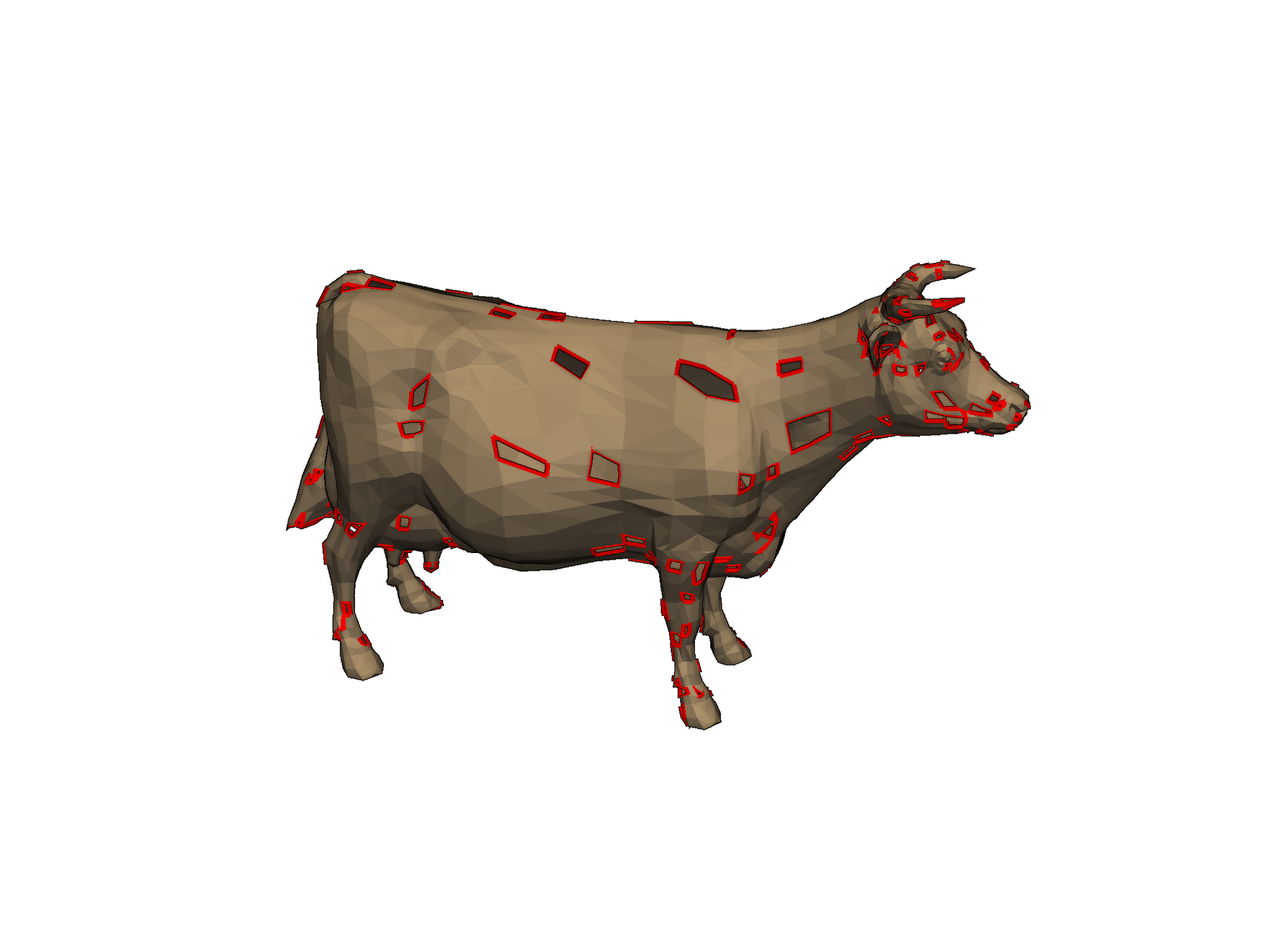
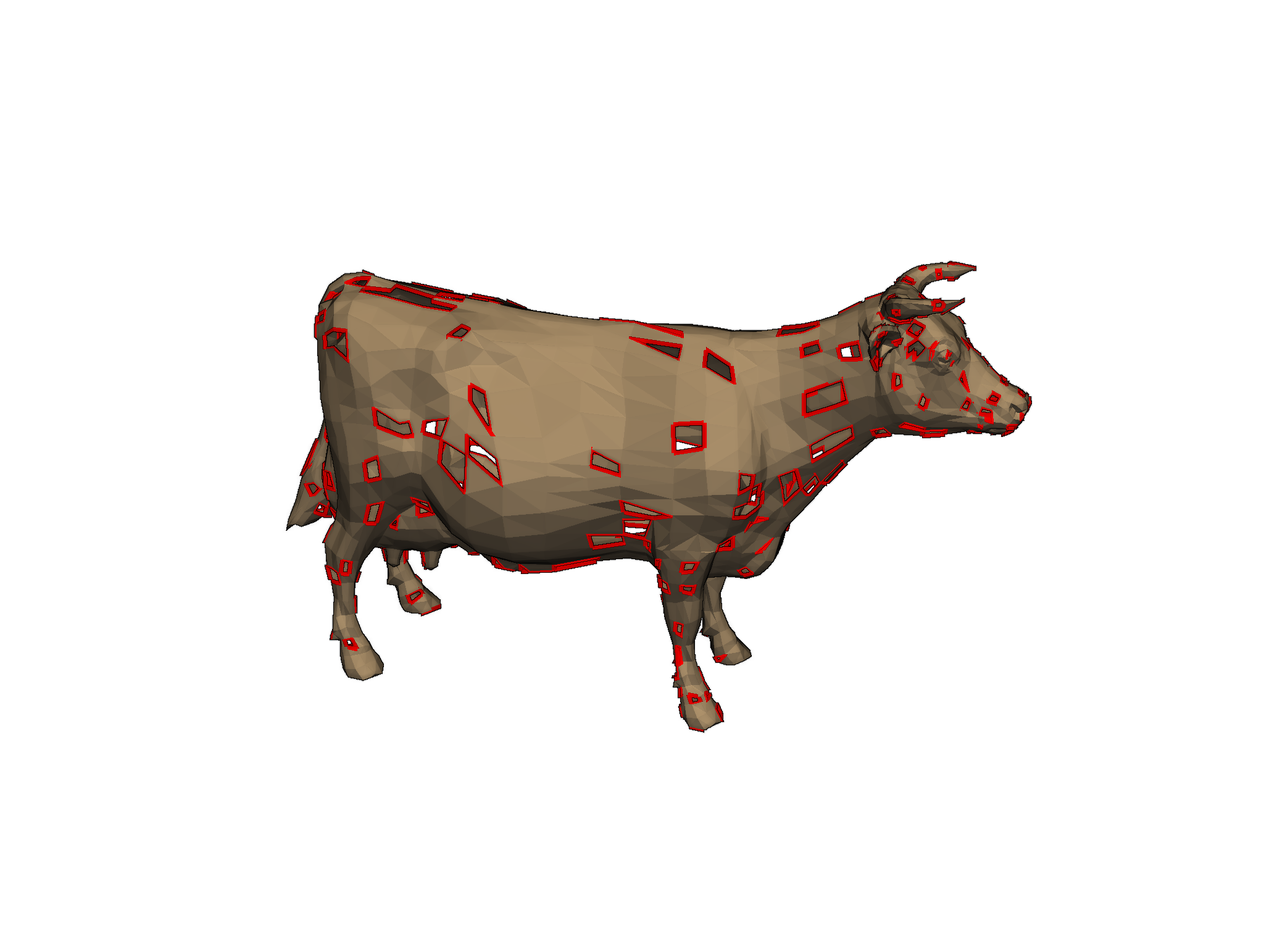
Deploying to gh-pages from @ pyvista/pymeshfix@f8fd3993439964ca3ed9f8ade580237b11e494d9 🚀

Changed region(s): [[0.25, 0.25, 0.8125, 0.7812], [0.2188, 0.4062, 0.4375, 0.6875]]

diff --git a/searchindex.js b/searchindex.js
@@ -1,1 +1,1 @@
-Search.setIndex({docnames:["_autosummary/_autosummary/pymeshfix.MeshFix.extract_holes","_autosummary/_autosummary/pymeshfix.MeshFix.faces","_autosummary/_autosummary/pymeshfix.MeshFix.load_arrays","_autosummary/_autosummary/pymeshfix.MeshFix.mesh","_autosummary/_autosummary/pymeshfix.MeshFix.plot","_autosummary/_autosummary/pymeshfix.MeshFix.points","_autosummary/_autosummary/pymeshfix.MeshFix.repair","_autosummary/_autosummary/pymeshfix.MeshFix.save","_autosummary/_autosummary/pymeshfix.PyTMesh.boundaries","_autosummary/_autosummary/pymeshfix.PyTMesh.clean","_autosummary/_autosummary/pymeshfix.PyTMesh.fill_small_boundaries","_autosummary/_autosummary/pymeshfix.PyTMesh.join_closest_components","_autosummary/_autosummary/pymeshfix.PyTMesh.load_array","_autosummary/_autosummary/pymeshfix.PyTMesh.load_file","_autosummary/_autosummary/pymeshfix.PyTMesh.n_points","_autosummary/_autosummary/pymeshfix.PyTMesh.remove_smallest_components","_autosummary/_autosummary/pymeshfix.PyTMesh.return_arrays","_autosummary/_autosummary/pymeshfix.PyTMesh.save_file","_autosummary/_autosummary/pymeshfix.PyTMesh.select_intersecting_triangles","_autosummary/pymeshfix.MeshFix","_autosummary/pymeshfix.PyTMesh","_autosummary/pymeshfix.clean_from_arrays","_autosummary/pymeshfix.clean_from_file","api","examples/bunny","examples/cow","examples/index","examples/repair_planar","examples/sg_execution_times","examples/torso","index"],envversion:{"sphinx.domains.c":2,"sphinx.domains.changeset":1,"sphinx.domains.citation":1,"sphinx.domains.cpp":3,"sphinx.domains.index":1,"sphinx.domains.javascript":2,"sphinx.domains.math":2,"sphinx.domains.python":3,"sphinx.domains.rst":2,"sphinx.domains.std":2,sphinx:56},filenames:["_autosummary/_autosummary/pymeshfix.MeshFix.extract_holes.rst","_autosummary/_autosummary/pymeshfix.MeshFix.faces.rst","_autosummary/_autosummary/pymeshfix.MeshFix.load_arrays.rst","_autosummary/_autosummary/pymeshfix.MeshFix.mesh.rst","_autosummary/_autosummary/pymeshfix.MeshFix.plot.rst","_autosummary/_autosummary/pymeshfix.MeshFix.points.rst","_autosummary/_autosummary/pymeshfix.MeshFix.repair.rst","_autosummary/_autosummary/pymeshfix.MeshFix.save.rst","_autosummary/_autosummary/pymeshfix.PyTMesh.boundaries.rst","_autosummary/_autosummary/pymeshfix.PyTMesh.clean.rst","_autosummary/_autosummary/pymeshfix.PyTMesh.fill_small_boundaries.rst","_autosummary/_autosummary/pymeshfix.PyTMesh.join_closest_components.rst","_autosummary/_autosummary/pymeshfix.PyTMesh.load_array.rst","_autosummary/_autosummary/pymeshfix.PyTMesh.load_file.rst","_autosummary/_autosummary/pymeshfix.PyTMesh.n_points.rst","_autosummary/_autosummary/pymeshfix.PyTMesh.remove_smallest_components.rst","_autosummary/_autosummary/pymeshfix.PyTMesh.return_arrays.rst","_autosummary/_autosummary/pymeshfix.PyTMesh.save_file.rst","_autosummary/_autosummary/pymeshfix.PyTMesh.select_intersecting_triangles.rst","_autosummary/pymeshfix.MeshFix.rst","_autosummary/pymeshfix.PyTMesh.rst","_autosummary/pymeshfix.clean_from_arrays.rst","_autosummary/pymeshfix.clean_from_file.rst","api.rst","examples/bunny.rst","examples/cow.rst","examples/index.rst","examples/repair_planar.rst","examples/sg_execution_times.rst","examples/torso.rst","index.rst"],objects:{"pymeshfix.MeshFix":{extract_holes:[0,1,1,""],faces:[1,1,1,""],load_arrays:[2,1,1,""],mesh:[3,2,1,""],plot:[4,1,1,""],points:[5,1,1,""],repair:[6,1,1,""],save:[7,1,1,""]},"pymeshfix.PyTMesh":{boundaries:[8,1,1,""],clean:[9,1,1,""],fill_small_boundaries:[10,1,1,""],join_closest_components:[11,1,1,""],load_array:[12,1,1,""],load_file:[13,1,1,""],n_points:[14,3,1,""],remove_smallest_components:[15,1,1,""],return_arrays:[16,1,1,""],save_file:[17,1,1,""],select_intersecting_triangles:[18,1,1,""]},pymeshfix:{MeshFix:[19,0,1,""],PyTMesh:[20,0,1,""],clean_from_arrays:[21,4,1,""],clean_from_file:[22,4,1,""]}},objnames:{"0":["py","class","Python class"],"1":["py","method","Python method"],"2":["py","property","Python property"],"3":["py","attribute","Python attribute"],"4":["py","function","Python function"]},objtypes:{"0":"py:class","1":"py:method","2":"py:property","3":"py:attribute","4":"py:function"},terms:{"0":[10,13,17,20,24,25,27,28,29],"00":[25,28],"01":29,"010":30,"015":24,"02":[28,29],"03":[25,28],"031":[24,28],"0416":30,"07":28,"083e":29,"09":28,"0x7fd8a0052dc0":25,"0x7fd8a0052e80":29,"0x7fd8a0775940":25,"1":[13,17,24,25,27,29,30],"10":[9,20,24,30],"100":27,"1007":30,"1053":29,"107":29,"11":29,"11728686797794724":29,"12":[24,29],"12015":29,"122":29,"12448":29,"1251":29,"12972139816963404":25,"13":[24,25,29],"1308599583755445":29,"15":29,"16":27,"17":29,"17593030196692086":29,"177":25,"18":29,"180":29,"2":[13,24,25,29,30],"2010":[20,30],"2020":30,"206":29,"22":[25,28,29],"2214553141739984":29,"26":24,"2659159586619985":24,"2727":25,"276":29,"28":24,"2863710324052292":24,"2903":25,"2d":2,"3":[2,9,12,19,20,21,25,27,30],"320e":29,"34924991814901474":25,"35":25,"4":[25,27],"44":25,"442e":29,"446e":25,"448":[28,29],"476":[27,28],"5":[24,25,27,29],"5225":25,"5450":25,"56":25,"6":[25,29],"624e":29,"637e":25,"680e":29,"696e":25,"7":29,"701e":25,"720e":29,"73":25,"749":28,"760e":25,"77":25,"794":[25,28],"8":[24,25,29],"83":29,"9":[24,25,29],"9204783184453794":24,"928006925367382":25,"93":25,"96":29,"9663504618501749":29,"9773905664828937":29,"998e":25,"case":[18,30],"class":[19,20,23],"default":[4,6,10,18,21,22,27],"export":3,"float":[17,30],"function":[23,26,30],"import":[13,19,20,21,22,24,25,27,29,30],"new":0,"public":[23,30],"return":[3,9,10,16,17,18,20,21,27,30],"true":[4,6,7,9,10,17,18,21,22,24,25,27,29],"while":30,A:[17,20,25,30],FOR:30,If:[10,17,20,27,30],In:30,It:27,No:30,One:30,Or:30,The:[9,12,13,17,18,20,23,26,30],There:[20,30],These:[23,27],To:30,_:27,_meshfix:[13,20,27],abov:30,absolut:29,access:[3,6,30],add:[10,25,27],add_mesh:[24,25,27,29],addit:4,aforement:9,again:[20,30],agreement:30,algorithm:27,all:[6,10,18,21,27,30],allow:30,along:[27,29],altern:30,an:[7,9,20,22],ani:30,appi:29,approach:[20,30],approxim:17,ar:[6,9,10,13,17,18,20,23,27,30],arg:19,argument:4,arrai:[2,6,12,16,18,19,20,21,25,29,30],ascii:[7,17],assum:30,attempt:[6,11,20,21,22,30],atten:[20,30],attribut:[19,20],author:30,automat:[12,13],award:30,back:27,back_approx:17,base:30,basic_tmesh:20,been:30,befor:[6,11,21],begin:[6,21],bell:30,better:30,between:17,binari:7,bool:[4,6,21,22],both:2,bound:[25,29,30],boundari:[0,4,10,20,27,30],bring:30,bunni:[26,28],c:[20,27,30],cad:30,call:9,camera:[24,25],camera_posit:[24,25,29],can:[7,30],cannot:30,cast:25,cd:30,cell:[25,29],charact:7,check:[20,30],cite:[20,30],clean:[17,19,20,21,22,30],clean_fac:21,clean_from_arrai:30,clean_from_fil:30,clean_point:21,click:[24,25,27,29],clone:30,close:30,cnr:30,coars:30,code:[24,25,27,29],coher:17,coincid:18,color:[24,25,27,29],com:30,commerci:30,common:18,commun:30,complet:9,complex:[18,29],compon:[6,11,15,20,21,22,25,29,30],comput:[20,30],connect:[12,13],contain:[2,12],contract:30,control:30,conveni:23,convert:27,cool:30,coordin:17,copi:30,correct:30,could:[9,30],cow:[19,26,28],cpo:[24,25,29],cpos_ear:29,creat:[19,20,30],current:13,cython:[20,23,30],d:[20,30],data:[2,17],debug:6,deduc:17,defect:30,defin:24,degener:[9,30],degeneraci:[9,24,25,29],demonstr:26,densiti:[10,27],depth:[18,24,25,27,29],design:30,detail:30,detect:27,determin:18,digit:[20,30],directli:30,disabl:6,disk:[7,22],distribut:30,doe:23,doi:30,don:30,download:[24,25,27,29],download_bunni:24,download_cow:[19,25],download_torso:29,drive:30,dtype:27,dual:30,e:30,each:[2,9],ear:29,eas:30,edg:[10,18,27],either:[19,22,27,30],element:30,emphas:29,empti:27,enabl:6,enable_eye_dome_light:[24,25,27,29],ensur:29,error:17,even:[18,30],eventu:9,exampl:[3,4,6,9,10,11,12,13,16,17,18,19,20,21,22,24,25,27,28,29],execut:28,expos:23,extens:[7,17,23],extra:27,extract:[0,24,29],extract_geometri:25,extract_hol:[24,25,27,29],eye_dome_light:29,f:[2,12,20,21,30],face:[2,6,9,12,16,18,19,21,27,30],fail:30,fals:[6,21,22,27],faster:7,fclean:[20,30],featur:30,file:[7,13,17,20,22,28],filenam:[7,17,22],filetyp:7,fill:[10,20,26,28,30],fill_small_boundari:[20,27,30],filter:29,fit:30,fix:[24,25,29],flaw:30,follow:[7,13,17,20,26,30],format:[13,17,20,30],foundat:30,free:30,from:[2,6,7,12,13,17,19,20,21,24,25,27,29,30],ftype:7,full:[24,25,27,29],g:30,galleri:[24,25,26,27,29],ge:30,gener:[24,25,26,27,29,30],get:8,git:30,github:30,gnu:30,gpl:30,ha:30,hard:30,have:[10,27,30],help:[4,24,25,27,29],here:[24,25,27,29,30],hole:[0,10,20,24,25,26,28,29,30],holei:[26,28],holy_cow:[19,25],hope:30,how:30,http:30,idea:30,imati:[13,17,30],impli:30,includ:27,indic:[1,18,19],infer:7,infil:[20,22,30],inmesh:22,inner:[10,27],inner_loop:[9,20,30],inplac:6,input:[22,30],instanc:20,int32:30,interfac:[20,27],intersect:[9,18,20,24,25,29,30],inventor:13,invert:25,ipynb:[24,25,27,29],isol:[6,21],iter:9,iv:[13,17],join:[6,11,20,21,22,30],join_closest_compon:[20,30],joincomp:[6,21,22],jul:30,jupyt:[24,25,27,29],justprop:18,keep:18,keyword:4,kwarg:4,largest:[6,21,27],last:30,later:30,left:30,less:10,level:[23,27],leverag:30,librari:30,licens:30,lightweight:[20,30],limit:[17,27],line:0,line_width:[24,25,27,29],ll:30,load:[2,12,13,20,21,30],load_arrai:[20,30],load_fil:27,loader:[12,13],loadfil:[13,20,30],locat:25,loop:8,lower:[23,27],m:[20,30],mai:[7,30],main:30,manifold:[12,13,22],marco:[20,30],max_it:[9,20,30],mb:28,memori:[17,30],merchant:30,mesh:[0,1,2,4,5,6,7,8,9,11,12,13,14,16,17,18,19,20,21,22,24,25,27,29,30],meshfix:[20,23,24,25,27,29,30],method:[7,9,19,20,23],mf:[19,24,25,29],mfix:[4,27],might:30,minut:[24,25,27,29],miss:30,model:30,modifi:30,modul:30,more:30,most:[18,27],much:7,must:[22,30],my_mesh:3,n:[2,12,19,21,25,29],n_cell:25,nativ:30,nbe:[10,27],ndarrai:[2,12,16,18,19,21],nearbi:[6,11,20,21,22,30],necessari:[17,30],need:29,nice:25,non:17,note:[6,7,27],notebook:[24,25,27,29],np:[2,12,19,21,25,27,30],npy:21,number:[8,10,14,18,27],numpi:[2,12,16,18,20,21,25,27,30],obj:13,object:[13,17,19,20,27,30],occur:17,occurr:30,off:[13,17,22],one:[7,17],onli:[9,27],open:[6,11,13,21,22],openinventor:17,option:[4,6,7,21,22,30],org:30,orig_mesh:27,origin:27,other:[18,30],out:[24,25,27,29,30],outfil:[17,20,22,30],outlin:[24,25,27,29],outmesh:22,output:[20,22,27,30],over:30,overridden:7,p:[24,25,29],paper:[20,30],paramet:[2,4,6,7,9,12,18,19,21,22],part:[18,29,30],partial:[26,28],particular:30,patch:[10,24,25,27,29],percept:[24,25,27,29],perform:[6,21,22,30],perfrom:29,pip:30,planar:27,planar_mesh:27,pleas:[20,30],plot:[3,24,25,27,29,30],plot_boundari:27,plotter:[24,25,27,29],ply:[3,7,13,17,22,30],point:[2,6,12,14,16,17,19,21,25,27,29],polydata:[19,25,27,29],polygon:[20,30],polyhedr:29,polyhedron:30,portabl:30,posit:24,precis:17,present:30,print:[6,20,21,22,25,29,30],procedur:[21,22],process:[6,21],produc:[9,30],program:30,progress:[21,22],proper:30,properti:3,publish:30,pure:23,purpos:[20,30],pv:[24,25,27,29],py:[24,25,27,28,29],pymeshfix:[24,25,27,29],pypi:30,python:[23,24,25,27,29,30],pytmesh:[23,27,30],pyvista:[0,4,7,19,22,23,24,25,26,27,29,30],r:[24,25,27,29],rand:25,random:25,raw:30,reach:30,read:[22,27,30],readi:24,reason:30,reconstruct:[12,13],recurs:18,redistribut:30,refer:30,refin:[10,27],reflect:17,regard:18,region:30,remov:[6,9,15,20,21,25,27,29,30],remove_smallest_compon:[6,21],render:[24,25,27],repair:[11,20,21,22,24,25,27,29,30],repair_planar:[27,28],repres:30,represent:17,reproduc:[10,27],requir:[23,30],research:[20,30],reserv:30,reson:18,result:[25,30],return_arrai:[20,27,30],right:30,run:[11,24,25,27,29,30],s00371:30,s:[6,7,27,30],safe:18,same:30,sampl:[10,27],save:[3,17,30],save_fil:[20,30],script:[24,25,27,29],second:[24,25,27,29],see:[4,30],seem:27,select:18,self:[9,20,30],set:[17,30],shape:27,should:[2,11,17,30],show:[4,24,25,27,29],show_edg:29,show_hol:4,simpl:7,simpli:29,singl:[22,27,30],singular:30,size:12,small:[10,25,29],smallest:15,so:29,softwar:30,solid:30,some:[27,30],sort:30,sourc:[24,25,27,29,30],space:18,specif:30,specifi:7,speed:30,sphinx:[24,25,26,27,29],sphinx_gallery_thumbnail_numb:[24,25,27,29],springer:[20,30],stdout:[21,22],still:30,stl:[7,13,22],str:[7,22],string:7,strongdegeneracyremov:9,strongintersectionremov:9,subdivis:18,subsimplex:18,subtl:29,support:13,surfac:[3,7,19,30],surround:[10,27],t:30,take:30,term:30,tessel:30,test:30,tetrahedr:19,than:[7,10],thei:[18,30],them:[6,9],therefor:30,therein:30,thi:[0,7,17,27,29,30],threchold:18,three:[2,7],threshold:25,thu:30,tight:29,time:[9,24,25,27,29],tin:[9,10,11,12,13,16,17,18,20,30],tmesh:[20,27,30],torso:[26,28],total:[24,25,27,28,29],tri:[13,17],triangl:[8,12,13,18,19,27,29,30],triangul:[25,29],triangular:2,tris_per_cel:18,two:[9,23],txt:30,type:[7,18],typic:30,unavail:30,under:[18,30],underli:3,understand:30,unless:7,unmodifi:30,unproperli:18,up:9,updat:[6,30],us:[6,9,17,18,19,20,22,23,26,27,30],user:30,v2:20,v:[2,12,20,21,30],valu:[17,18],vclean:[20,30],ver:[13,17],verbos:[6,21,22,24,25,27,29],version:30,vert:27,vertex:[2,6,16,17,19,21,30],vertic:[10,12,18,21,27],vertici:12,view:30,visual:[20,30],vrml:[13,17],vtk:[7,22,27],vtkinterfac:30,wa:29,want:30,warranti:30,water:29,watertight:30,when:17,where:[29,30],wherebi:27,which:23,whistl:30,win:30,wish:30,with_vtk:30,within:30,without:[9,22,23],wonder:30,work:30,wrapper:[7,30],write:[7,22,30],written:7,wrl:[13,17],www:30,x:[2,12,19,21,25,29],xyz:2,y:[25,29],you:30,your:30,z:[25,29],zero:17},titles:["pymeshfix.MeshFix.extract_holes","pymeshfix.MeshFix.faces","pymeshfix.MeshFix.load_arrays","pymeshfix.MeshFix.mesh","pymeshfix.MeshFix.plot","pymeshfix.MeshFix.points","pymeshfix.MeshFix.repair","pymeshfix.MeshFix.save","pymeshfix.PyTMesh.boundaries","pymeshfix.PyTMesh.clean","pymeshfix.PyTMesh.fill_small_boundaries","pymeshfix.PyTMesh.join_closest_components","pymeshfix.PyTMesh.load_array","pymeshfix.PyTMesh.load_file","pymeshfix.PyTMesh.n_points","pymeshfix.PyTMesh.remove_smallest_components","pymeshfix.PyTMesh.return_arrays","pymeshfix.PyTMesh.save_file","pymeshfix.PyTMesh.select_intersecting_triangles","pymeshfix.MeshFix","pymeshfix.PyTMesh","pymeshfix.clean_from_arrays","pymeshfix.clean_from_file","API Reference","Bunny","Holey Cow","pymeshfix Examples","Partial Fill Holes","Computation times","Torso","PyMeshFix"],titleterms:{algorithm:30,api:23,boundari:8,bunni:24,citat:30,clean:9,clean_from_arrai:21,clean_from_fil:22,complet:30,comput:28,copyright:30,cow:25,depend:30,easi:30,exampl:[26,30],extract_hol:0,face:1,fill:27,fill_small_boundari:10,hole:27,holei:25,instal:30,join_closest_compon:11,load_arrai:[2,12],load_fil:13,mesh:3,meshfix:[0,1,2,3,4,5,6,7,19],n_point:14,partial:27,plot:4,point:5,polici:30,pymeshfix:[0,1,2,3,4,5,6,7,8,9,10,11,12,13,14,15,16,17,18,19,20,21,22,26,30],pytmesh:[8,9,10,11,12,13,14,15,16,17,18,20],refer:23,remove_smallest_compon:15,repair:6,return_arrai:16,save:7,save_fil:17,select_intersecting_triangl:18,time:28,torso:29,vtk:30,without:30}})
+Search.setIndex({docnames:["_autosummary/_autosummary/pymeshfix.MeshFix.extract_holes","_autosummary/_autosummary/pymeshfix.MeshFix.faces","_autosummary/_autosummary/pymeshfix.MeshFix.load_arrays","_autosummary/_autosummary/pymeshfix.MeshFix.mesh","_autosummary/_autosummary/pymeshfix.MeshFix.plot","_autosummary/_autosummary/pymeshfix.MeshFix.points","_autosummary/_autosummary/pymeshfix.MeshFix.repair","_autosummary/_autosummary/pymeshfix.MeshFix.save","_autosummary/_autosummary/pymeshfix.PyTMesh.boundaries","_autosummary/_autosummary/pymeshfix.PyTMesh.clean","_autosummary/_autosummary/pymeshfix.PyTMesh.fill_small_boundaries","_autosummary/_autosummary/pymeshfix.PyTMesh.join_closest_components","_autosummary/_autosummary/pymeshfix.PyTMesh.load_array","_autosummary/_autosummary/pymeshfix.PyTMesh.load_file","_autosummary/_autosummary/pymeshfix.PyTMesh.n_points","_autosummary/_autosummary/pymeshfix.PyTMesh.remove_smallest_components","_autosummary/_autosummary/pymeshfix.PyTMesh.return_arrays","_autosummary/_autosummary/pymeshfix.PyTMesh.save_file","_autosummary/_autosummary/pymeshfix.PyTMesh.select_intersecting_triangles","_autosummary/pymeshfix.MeshFix","_autosummary/pymeshfix.PyTMesh","_autosummary/pymeshfix.clean_from_arrays","_autosummary/pymeshfix.clean_from_file","api","examples/bunny","examples/cow","examples/index","examples/repair_planar","examples/sg_execution_times","examples/torso","index"],envversion:{"sphinx.domains.c":2,"sphinx.domains.changeset":1,"sphinx.domains.citation":1,"sphinx.domains.cpp":3,"sphinx.domains.index":1,"sphinx.domains.javascript":2,"sphinx.domains.math":2,"sphinx.domains.python":3,"sphinx.domains.rst":2,"sphinx.domains.std":2,sphinx:56},filenames:["_autosummary/_autosummary/pymeshfix.MeshFix.extract_holes.rst","_autosummary/_autosummary/pymeshfix.MeshFix.faces.rst","_autosummary/_autosummary/pymeshfix.MeshFix.load_arrays.rst","_autosummary/_autosummary/pymeshfix.MeshFix.mesh.rst","_autosummary/_autosummary/pymeshfix.MeshFix.plot.rst","_autosummary/_autosummary/pymeshfix.MeshFix.points.rst","_autosummary/_autosummary/pymeshfix.MeshFix.repair.rst","_autosummary/_autosummary/pymeshfix.MeshFix.save.rst","_autosummary/_autosummary/pymeshfix.PyTMesh.boundaries.rst","_autosummary/_autosummary/pymeshfix.PyTMesh.clean.rst","_autosummary/_autosummary/pymeshfix.PyTMesh.fill_small_boundaries.rst","_autosummary/_autosummary/pymeshfix.PyTMesh.join_closest_components.rst","_autosummary/_autosummary/pymeshfix.PyTMesh.load_array.rst","_autosummary/_autosummary/pymeshfix.PyTMesh.load_file.rst","_autosummary/_autosummary/pymeshfix.PyTMesh.n_points.rst","_autosummary/_autosummary/pymeshfix.PyTMesh.remove_smallest_components.rst","_autosummary/_autosummary/pymeshfix.PyTMesh.return_arrays.rst","_autosummary/_autosummary/pymeshfix.PyTMesh.save_file.rst","_autosummary/_autosummary/pymeshfix.PyTMesh.select_intersecting_triangles.rst","_autosummary/pymeshfix.MeshFix.rst","_autosummary/pymeshfix.PyTMesh.rst","_autosummary/pymeshfix.clean_from_arrays.rst","_autosummary/pymeshfix.clean_from_file.rst","api.rst","examples/bunny.rst","examples/cow.rst","examples/index.rst","examples/repair_planar.rst","examples/sg_execution_times.rst","examples/torso.rst","index.rst"],objects:{"pymeshfix.MeshFix":{extract_holes:[0,1,1,""],faces:[1,1,1,""],load_arrays:[2,1,1,""],mesh:[3,2,1,""],plot:[4,1,1,""],points:[5,1,1,""],repair:[6,1,1,""],save:[7,1,1,""]},"pymeshfix.PyTMesh":{boundaries:[8,1,1,""],clean:[9,1,1,""],fill_small_boundaries:[10,1,1,""],join_closest_components:[11,1,1,""],load_array:[12,1,1,""],load_file:[13,1,1,""],n_points:[14,3,1,""],remove_smallest_components:[15,1,1,""],return_arrays:[16,1,1,""],save_file:[17,1,1,""],select_intersecting_triangles:[18,1,1,""]},pymeshfix:{MeshFix:[19,0,1,""],PyTMesh:[20,0,1,""],clean_from_arrays:[21,4,1,""],clean_from_file:[22,4,1,""]}},objnames:{"0":["py","class","Python class"],"1":["py","method","Python method"],"2":["py","property","Python property"],"3":["py","attribute","Python attribute"],"4":["py","function","Python function"]},objtypes:{"0":"py:class","1":"py:method","2":"py:property","3":"py:attribute","4":"py:function"},terms:{"0":[10,13,17,20,24,25,27,28,29],"00":[25,28],"01":29,"010":30,"015":24,"02":[28,29],"03":25,"0416":30,"052":[24,28],"058":[28,29],"06":28,"07":28,"083e":29,"0x7f263c4eb9a0":25,"0x7f263f5e9b20":25,"0x7f2640e7f0a0":29,"1":[13,17,24,25,27,29,30],"10":[9,20,24,30],"100":27,"1007":30,"1053":29,"107":29,"11":29,"11728686797794724":29,"12":[24,29],"12015":29,"122":29,"12448":29,"1251":29,"12972139816963404":25,"13":[24,25,29],"1308599583755445":29,"15":29,"16":27,"17":29,"17593030196692086":29,"18":[28,29],"180":29,"189":25,"2":[13,24,25,27,29,30],"2010":[20,30],"2020":30,"204":28,"206":29,"22":[25,29],"2214553141739984":29,"26":24,"2659159586619985":24,"276":29,"28":24,"2850":25,"2863710324052292":24,"2903":25,"2d":2,"3":[2,9,12,19,20,21,25,27,30],"320e":29,"328":[25,28],"34924991814901474":25,"35":25,"4":[25,27],"44":25,"442e":29,"446e":25,"5":[24,25,27,29],"5196":25,"56":25,"5696":25,"6":[25,29],"624e":29,"637e":25,"680e":29,"7":24,"701e":25,"720e":29,"73":25,"760e":25,"766":[27,28],"77":25,"8":[24,25,29],"83":29,"9":[24,25,29],"9204783184453794":24,"928006925367382":25,"93":25,"96":29,"9663504618501749":29,"9773905664828937":29,"998e":25,"case":[18,30],"class":[19,20,23],"default":[4,6,10,18,21,22,27],"export":3,"float":[17,30],"function":[23,26,30],"import":[13,19,20,21,22,24,25,27,29,30],"new":0,"public":[23,30],"return":[3,9,10,16,17,18,20,21,27,30],"true":[4,6,7,9,10,17,18,21,22,24,25,27,29],"while":30,A:[17,20,25,30],FOR:30,If:[10,17,20,27,30],In:30,It:27,No:30,One:30,Or:30,The:[9,12,13,17,18,20,23,26,30],There:[20,30],These:[23,27],To:30,_:27,_meshfix:[13,20,27],abov:30,absolut:29,access:[3,6,30],add:[10,25,27],add_mesh:[24,25,27,29],addit:4,aforement:9,again:[20,30],agreement:30,algorithm:27,all:[6,10,18,21,27,30],allow:30,along:[27,29],altern:30,an:[7,9,20,22],ani:30,appi:29,approach:[20,30],approxim:17,ar:[6,9,10,13,17,18,20,23,27,30],arg:19,argument:4,arrai:[2,6,12,16,18,19,20,21,25,29,30],ascii:[7,17],assum:30,attempt:[6,11,20,21,22,30],atten:[20,30],attribut:[19,20],author:30,automat:[12,13],award:30,back:27,back_approx:17,base:30,basic_tmesh:20,been:30,befor:[6,11,21],begin:[6,21],bell:30,better:30,between:17,binari:7,bool:[4,6,21,22],both:2,bound:[25,29,30],boundari:[0,4,10,20,27,30],bring:30,bunni:[26,28],c:[20,27,30],cad:30,call:9,camera:[24,25],camera_posit:[24,25,29],can:[7,30],cannot:30,cast:25,cd:30,cell:[25,29],charact:7,check:[20,30],cite:[20,30],clean:[17,19,20,21,22,30],clean_fac:21,clean_from_arrai:30,clean_from_fil:30,clean_point:21,click:[24,25,27,29],clone:30,close:30,cnr:30,coars:30,code:[24,25,27,29],coher:17,coincid:18,color:[24,25,27,29],com:30,commerci:30,common:18,commun:30,complet:9,complex:[18,29],compon:[6,11,15,20,21,22,25,29,30],comput:[20,30],connect:[12,13],contain:[2,12],contract:30,control:30,conveni:23,convert:27,cool:30,coordin:17,copi:30,correct:30,could:[9,30],cow:[19,26,28],cpo:[24,25,29],cpos_ear:29,creat:[19,20,30],current:13,cython:[20,23,30],d:[20,30],data:[2,17],debug:6,deduc:17,defect:30,defin:24,degener:[9,30],degeneraci:[9,24,25,29],demonstr:26,densiti:[10,27],depth:[18,24,25,27,29],design:30,detail:30,detect:27,determin:18,digit:[20,30],directli:30,disabl:6,disk:[7,22],distribut:30,doe:23,doi:30,don:30,download:[24,25,27,29],download_bunni:24,download_cow:[19,25],download_torso:29,drive:30,dtype:27,dual:30,e:30,each:[2,9],ear:29,eas:30,edg:[10,18,27],either:[19,22,27,30],element:30,emphas:29,empti:27,enabl:6,enable_eye_dome_light:[24,25,27,29],ensur:29,error:17,even:[18,30],eventu:9,exampl:[3,4,6,9,10,11,12,13,16,17,18,19,20,21,22,24,25,27,28,29],execut:28,expos:23,extens:[7,17,23],extra:27,extract:[0,24,29],extract_geometri:25,extract_hol:[24,25,27,29],eye_dome_light:29,f:[2,12,20,21,30],face:[2,6,9,12,16,18,19,21,27,30],fail:30,fals:[6,21,22,27],faster:7,fclean:[20,30],featur:30,file:[7,13,17,20,22,28],filenam:[7,17,22],filetyp:7,fill:[10,20,26,28,30],fill_small_boundari:[20,27,30],filter:29,fit:30,fix:[24,25,29],flaw:30,follow:[7,13,17,20,26,30],format:[13,17,20,30],foundat:30,free:30,from:[2,6,7,12,13,17,19,20,21,24,25,27,29,30],ftype:7,full:[24,25,27,29],g:30,galleri:[24,25,26,27,29],ge:30,gener:[24,25,26,27,29,30],get:8,git:30,github:30,gnu:30,gpl:30,ha:30,hard:30,have:[10,27,30],help:[4,24,25,27,29],here:[24,25,27,29,30],hole:[0,10,20,24,25,26,28,29,30],holei:[26,28],holy_cow:[19,25],hope:30,how:30,http:30,idea:30,imati:[13,17,30],impli:30,includ:27,indic:[1,18,19],infer:7,infil:[20,22,30],inmesh:22,inner:[10,27],inner_loop:[9,20,30],inplac:6,input:[22,30],instanc:20,int32:30,interfac:[20,27],intersect:[9,18,20,24,25,29,30],inventor:13,invert:25,ipynb:[24,25,27,29],isol:[6,21],iter:9,iv:[13,17],join:[6,11,20,21,22,30],join_closest_compon:[20,30],joincomp:[6,21,22],jul:30,jupyt:[24,25,27,29],justprop:18,keep:18,keyword:4,kwarg:4,largest:[6,21,27],last:30,later:30,left:30,less:10,level:[23,27],leverag:30,librari:30,licens:30,lightweight:[20,30],limit:[17,27],line:0,line_width:[24,25,27,29],ll:30,load:[2,12,13,20,21,30],load_arrai:[20,30],load_fil:27,loader:[12,13],loadfil:[13,20,30],locat:25,loop:8,lower:[23,27],m:[20,30],mai:[7,30],main:30,manifold:[12,13,22],marco:[20,30],max_it:[9,20,30],mb:28,memori:[17,30],merchant:30,mesh:[0,1,2,4,5,6,7,8,9,11,12,13,14,16,17,18,19,20,21,22,24,25,27,29,30],meshfix:[20,23,24,25,27,29,30],method:[7,9,19,20,23],mf:[19,24,25,29],mfix:[4,27],might:30,minut:[24,25,27,29],miss:30,model:30,modifi:30,modul:30,more:30,most:[18,27],much:7,must:[22,30],my_mesh:3,n:[2,12,19,21,25,29],n_cell:25,nativ:30,nbe:[10,27],ndarrai:[2,12,16,18,19,21],nearbi:[6,11,20,21,22,30],necessari:[17,30],need:29,nice:25,non:17,note:[6,7,27],notebook:[24,25,27,29],np:[2,12,19,21,25,27,30],npy:21,number:[8,10,14,18,27],numpi:[2,12,16,18,20,21,25,27,30],obj:13,object:[13,17,19,20,27,30],occur:17,occurr:30,off:[13,17,22],one:[7,17],onli:[9,27],open:[6,11,13,21,22],openinventor:17,option:[4,6,7,21,22,30],org:30,orig_mesh:27,origin:27,other:[18,30],out:[24,25,27,29,30],outfil:[17,20,22,30],outlin:[24,25,27,29],outmesh:22,output:[20,22,27,30],over:30,overridden:7,p:[24,25,29],paper:[20,30],paramet:[2,4,6,7,9,12,18,19,21,22],part:[18,29,30],partial:[26,28],particular:30,patch:[10,24,25,27,29],percept:[24,25,27,29],perform:[6,21,22,30],perfrom:29,pip:30,planar:27,planar_mesh:27,pleas:[20,30],plot:[3,24,25,27,29,30],plot_boundari:27,plotter:[24,25,27,29],ply:[3,7,13,17,22,30],point:[2,6,12,14,16,17,19,21,25,27,29],polydata:[19,25,27,29],polygon:[20,30],polyhedr:29,polyhedron:30,portabl:30,posit:24,precis:17,present:30,print:[6,20,21,22,25,29,30],procedur:[21,22],process:[6,21],produc:[9,30],program:30,progress:[21,22],proper:30,properti:3,publish:30,pure:23,purpos:[20,30],pv:[24,25,27,29],py:[24,25,27,28,29],pymeshfix:[24,25,27,29],pypi:30,python:[23,24,25,27,29,30],pytmesh:[23,27,30],pyvista:[0,4,7,19,22,23,24,25,26,27,29,30],r:[24,25,27,29],rand:25,random:25,raw:30,reach:30,read:[22,27,30],readi:24,reason:30,reconstruct:[12,13],recurs:18,redistribut:30,refer:30,refin:[10,27],reflect:17,regard:18,region:30,remov:[6,9,15,20,21,25,27,29,30],remove_smallest_compon:[6,21],render:[24,25,27],repair:[11,20,21,22,24,25,27,29,30],repair_planar:[27,28],repres:30,represent:17,reproduc:[10,27],requir:[23,30],research:[20,30],reserv:30,reson:18,result:[25,30],return_arrai:[20,27,30],right:30,run:[11,24,25,27,29,30],s00371:30,s:[6,7,27,30],safe:18,same:30,sampl:[10,27],save:[3,17,30],save_fil:[20,30],script:[24,25,27,29],second:[24,25,27,29],see:[4,30],seem:27,select:18,self:[9,20,30],set:[17,30],shape:27,should:[2,11,17,30],show:[4,24,25,27,29],show_edg:29,show_hol:4,simpl:7,simpli:29,singl:[22,27,30],singular:30,size:12,small:[10,25,29],smallest:15,so:29,softwar:30,solid:30,some:[27,30],sort:30,sourc:[24,25,27,29,30],space:18,specif:30,specifi:7,speed:30,sphinx:[24,25,26,27,29],sphinx_gallery_thumbnail_numb:[24,25,27,29],springer:[20,30],stdout:[21,22],still:30,stl:[7,13,22],str:[7,22],string:7,strongdegeneracyremov:9,strongintersectionremov:9,subdivis:18,subsimplex:18,subtl:29,support:13,surfac:[3,7,19,30],surround:[10,27],t:30,take:30,term:30,tessel:30,test:30,tetrahedr:19,than:[7,10],thei:[18,30],them:[6,9],therefor:30,therein:30,thi:[0,7,17,27,29,30],threchold:18,three:[2,7],threshold:25,thu:30,tight:29,time:[9,24,25,27,29],tin:[9,10,11,12,13,16,17,18,20,30],tmesh:[20,27,30],torso:[26,28],total:[24,25,27,28,29],tri:[13,17],triangl:[8,12,13,18,19,27,29,30],triangul:[25,29],triangular:2,tris_per_cel:18,two:[9,23],txt:30,type:[7,18],typic:30,unavail:30,under:[18,30],underli:3,understand:30,unless:7,unmodifi:30,unproperli:18,up:9,updat:[6,30],us:[6,9,17,18,19,20,22,23,26,27,30],user:30,v2:20,v:[2,12,20,21,30],valu:[17,18],vclean:[20,30],ver:[13,17],verbos:[6,21,22,24,25,27,29],version:30,vert:27,vertex:[2,6,16,17,19,21,30],vertic:[10,12,18,21,27],vertici:12,view:30,visual:[20,30],vrml:[13,17],vtk:[7,22,27],vtkinterfac:30,wa:29,want:30,warranti:30,water:29,watertight:30,when:17,where:[29,30],wherebi:27,which:23,whistl:30,win:30,wish:30,with_vtk:30,within:30,without:[9,22,23],wonder:30,work:30,wrapper:[7,30],write:[7,22,30],written:7,wrl:[13,17],www:30,x:[2,12,19,21,25,29],xyz:2,y:[25,29],you:30,your:30,z:[25,29],zero:17},titles:["pymeshfix.MeshFix.extract_holes","pymeshfix.MeshFix.faces","pymeshfix.MeshFix.load_arrays","pymeshfix.MeshFix.mesh","pymeshfix.MeshFix.plot","pymeshfix.MeshFix.points","pymeshfix.MeshFix.repair","pymeshfix.MeshFix.save","pymeshfix.PyTMesh.boundaries","pymeshfix.PyTMesh.clean","pymeshfix.PyTMesh.fill_small_boundaries","pymeshfix.PyTMesh.join_closest_components","pymeshfix.PyTMesh.load_array","pymeshfix.PyTMesh.load_file","pymeshfix.PyTMesh.n_points","pymeshfix.PyTMesh.remove_smallest_components","pymeshfix.PyTMesh.return_arrays","pymeshfix.PyTMesh.save_file","pymeshfix.PyTMesh.select_intersecting_triangles","pymeshfix.MeshFix","pymeshfix.PyTMesh","pymeshfix.clean_from_arrays","pymeshfix.clean_from_file","API Reference","Bunny","Holey Cow","pymeshfix Examples","Partial Fill Holes","Computation times","Torso","PyMeshFix"],titleterms:{algorithm:30,api:23,boundari:8,bunni:24,citat:30,clean:9,clean_from_arrai:21,clean_from_fil:22,complet:30,comput:28,copyright:30,cow:25,depend:30,easi:30,exampl:[26,30],extract_hol:0,face:1,fill:27,fill_small_boundari:10,hole:27,holei:25,instal:30,join_closest_compon:11,load_arrai:[2,12],load_fil:13,mesh:3,meshfix:[0,1,2,3,4,5,6,7,19],n_point:14,partial:27,plot:4,point:5,polici:30,pymeshfix:[0,1,2,3,4,5,6,7,8,9,10,11,12,13,14,15,16,17,18,19,20,21,22,26,30],pytmesh:[8,9,10,11,12,13,14,15,16,17,18,20],refer:23,remove_smallest_compon:15,repair:6,return_arrai:16,save:7,save_fil:17,select_intersecting_triangl:18,time:28,torso:29,vtk:30,without:30}})

diff --git a/examples/cow.html b/examples/cow.html
@@ -215,8 +215,8 @@ to download the full example code</p>
 </pre></div>
 </div>
 <p class="sphx-glr-script-out">Out:</p>
-<div class="sphx-glr-script-out highlight-none notranslate"><div class="highlight"><pre><span></span>PolyData (0x7fd8a0052dc0)
-  N Cells:      5225
+<div class="sphx-glr-script-out highlight-none notranslate"><div class="highlight"><pre><span></span>PolyData (0x7f263c4eb9a0)
+  N Cells:      5196
   N Points:     2903
   X Bounds:     -4.446e+00, 5.998e+00
   Y Bounds:     -3.637e+00, 2.760e+00
@@ -255,7 +255,7 @@ to download the full example code</p>
 <p class="sphx-glr-script-out">Out:</p>
 <div class="sphx-glr-script-out highlight-none notranslate"><div class="highlight"><pre><span></span>Removed 1 small components
 Patching holes...
-Patched 177 holes
+Patched 189 holes
 Fixing degeneracies and intersections
 </pre></div>
 </div>
@@ -265,10 +265,10 @@ Fixing degeneracies and intersections
 </pre></div>
 </div>
 <p class="sphx-glr-script-out">Out:</p>
-<div class="sphx-glr-script-out highlight-none notranslate"><div class="highlight"><pre><span></span>PolyData (0x7fd8a0775940)
-  N Cells:      5450
-  N Points:     2727
-  X Bounds:     -3.696e+00, 5.998e+00
+<div class="sphx-glr-script-out highlight-none notranslate"><div class="highlight"><pre><span></span>PolyData (0x7f263f5e9b20)
+  N Cells:      5696
+  N Points:     2850
+  X Bounds:     -4.446e+00, 5.998e+00
   Y Bounds:     -3.637e+00, 2.760e+00
   Z Bounds:     -1.701e+00, 1.701e+00
   N Arrays:     0
@@ -284,7 +284,7 @@ Fixing degeneracies and intersections
  (-0.12972139816963404, 0.928006925367382, -0.34924991814901474)]
 </pre></div>
 </div>
-<p class="sphx-glr-timing"><strong>Total running time of the script:</strong> ( 0 minutes  2.794 seconds)</p>
+<p class="sphx-glr-timing"><strong>Total running time of the script:</strong> ( 0 minutes  2.328 seconds)</p>
 <div class="sphx-glr-footer class sphx-glr-footer-example docutils container" id="sphx-glr-download-examples-cow-py">
 <div class="sphx-glr-download sphx-glr-download-python docutils container">
 <p><a class="reference download internal" download="" href="../_downloads/571b56e4f032d3d1ce8260347be71ecd/cow.py"><code class="xref download docutils literal notranslate"><span class="pre">Download</span> <span class="pre">Python</span> <span class="pre">source</span> <span class="pre">code:</span> <span class="pre">cow.py</span></code></a></p>

diff --git a/examples/sg_execution_times.html b/examples/sg_execution_times.html
@@ -163,7 +163,7 @@
                 
   <div class="section" id="computation-times">
 <span id="sphx-glr-examples-sg-execution-times"></span><h1>Computation times<a class="headerlink" href="#computation-times" title="Permalink to this headline">¶</a></h1>
-<p><strong>00:22.749</strong> total execution time for <strong>examples</strong> files:</p>
+<p><strong>00:18.204</strong> total execution time for <strong>examples</strong> files:</p>
 <table class="table">
 <colgroup>
 <col style="width: 78%" />
@@ -172,19 +172,19 @@
 </colgroup>
 <tbody>
 <tr class="row-odd"><td><p><a class="reference internal" href="bunny.html#sphx-glr-examples-bunny-py"><span class="std std-ref">Bunny</span></a> (<code class="docutils literal notranslate"><span class="pre">bunny.py</span></code>)</p></td>
-<td><p>00:09.031</p></td>
+<td><p>00:07.052</p></td>
 <td><p>0.0 MB</p></td>
 </tr>
 <tr class="row-even"><td><p><a class="reference internal" href="torso.html#sphx-glr-examples-torso-py"><span class="std std-ref">Torso</span></a> (<code class="docutils literal notranslate"><span class="pre">torso.py</span></code>)</p></td>
-<td><p>00:07.448</p></td>
+<td><p>00:06.058</p></td>
 <td><p>0.0 MB</p></td>
 </tr>
 <tr class="row-odd"><td><p><a class="reference internal" href="repair_planar.html#sphx-glr-examples-repair-planar-py"><span class="std std-ref">Partial Fill Holes</span></a> (<code class="docutils literal notranslate"><span class="pre">repair_planar.py</span></code>)</p></td>
-<td><p>00:03.476</p></td>
+<td><p>00:02.766</p></td>
 <td><p>0.0 MB</p></td>
 </tr>
 <tr class="row-even"><td><p><a class="reference internal" href="cow.html#sphx-glr-examples-cow-py"><span class="std std-ref">Holey Cow</span></a> (<code class="docutils literal notranslate"><span class="pre">cow.py</span></code>)</p></td>
-<td><p>00:02.794</p></td>
+<td><p>00:02.328</p></td>
 <td><p>0.0 MB</p></td>
 </tr>
 </tbody>

diff --git a/examples/torso.html b/examples/torso.html
@@ -211,7 +211,7 @@ parts of the mesh</p>
 </pre></div>
 </div>
 <p class="sphx-glr-script-out">Out:</p>
-<div class="sphx-glr-script-out highlight-none notranslate"><div class="highlight"><pre><span></span>PolyData (0x7fd8a0052e80)
+<div class="sphx-glr-script-out highlight-none notranslate"><div class="highlight"><pre><span></span>PolyData (0x7f2640e7f0a0)
   N Cells:      12448
   N Points:     12015
   X Bounds:     -1.680e+02, 1.720e+02
@@ -298,7 +298,7 @@ Fixing degeneracies and intersections
  (0.11728686797794724, 0.17593030196692086, 0.9773905664828937)]
 </pre></div>
 </div>
-<p class="sphx-glr-timing"><strong>Total running time of the script:</strong> ( 0 minutes  7.448 seconds)</p>
+<p class="sphx-glr-timing"><strong>Total running time of the script:</strong> ( 0 minutes  6.058 seconds)</p>
 <div class="sphx-glr-footer class sphx-glr-footer-example docutils container" id="sphx-glr-download-examples-torso-py">
 <div class="sphx-glr-download sphx-glr-download-python docutils container">
 <p><a class="reference download internal" download="" href="../_downloads/0c5e3f7fb0853b3a7f119ade3fddd8de/torso.py"><code class="xref download docutils literal notranslate"><span class="pre">Download</span> <span class="pre">Python</span> <span class="pre">source</span> <span class="pre">code:</span> <span class="pre">torso.py</span></code></a></p>

diff --git a/examples/repair_planar.html b/examples/repair_planar.html
@@ -260,7 +260,7 @@ either.</p>
 </pre></div>
 </div>
 <img alt="repair planar" class="sphx-glr-single-img" src="../_images/sphx_glr_repair_planar_002.png" />
-<p class="sphx-glr-timing"><strong>Total running time of the script:</strong> ( 0 minutes  3.476 seconds)</p>
+<p class="sphx-glr-timing"><strong>Total running time of the script:</strong> ( 0 minutes  2.766 seconds)</p>
 <div class="sphx-glr-footer class sphx-glr-footer-example docutils container" id="sphx-glr-download-examples-repair-planar-py">
 <div class="sphx-glr-download sphx-glr-download-python docutils container">
 <p><a class="reference download internal" download="" href="../_downloads/472753a131a4fa63ac340a1600a365f8/repair_planar.py"><code class="xref download docutils literal notranslate"><span class="pre">Download</span> <span class="pre">Python</span> <span class="pre">source</span> <span class="pre">code:</span> <span class="pre">repair_planar.py</span></code></a></p>

diff --git a/examples/bunny.html b/examples/bunny.html
@@ -265,7 +265,7 @@ Fixing degeneracies and intersections
  (0.2863710324052292, 0.2659159586619985, 0.9204783184453794)]
 </pre></div>
 </div>
-<p class="sphx-glr-timing"><strong>Total running time of the script:</strong> ( 0 minutes  9.031 seconds)</p>
+<p class="sphx-glr-timing"><strong>Total running time of the script:</strong> ( 0 minutes  7.052 seconds)</p>
 <div class="sphx-glr-footer class sphx-glr-footer-example docutils container" id="sphx-glr-download-examples-bunny-py">
 <div class="sphx-glr-download sphx-glr-download-python docutils container">
 <p><a class="reference download internal" download="" href="../_downloads/19becafd148287ce3484b9870dc9330b/bunny.py"><code class="xref download docutils literal notranslate"><span class="pre">Download</span> <span class="pre">Python</span> <span class="pre">source</span> <span class="pre">code:</span> <span class="pre">bunny.py</span></code></a></p>
